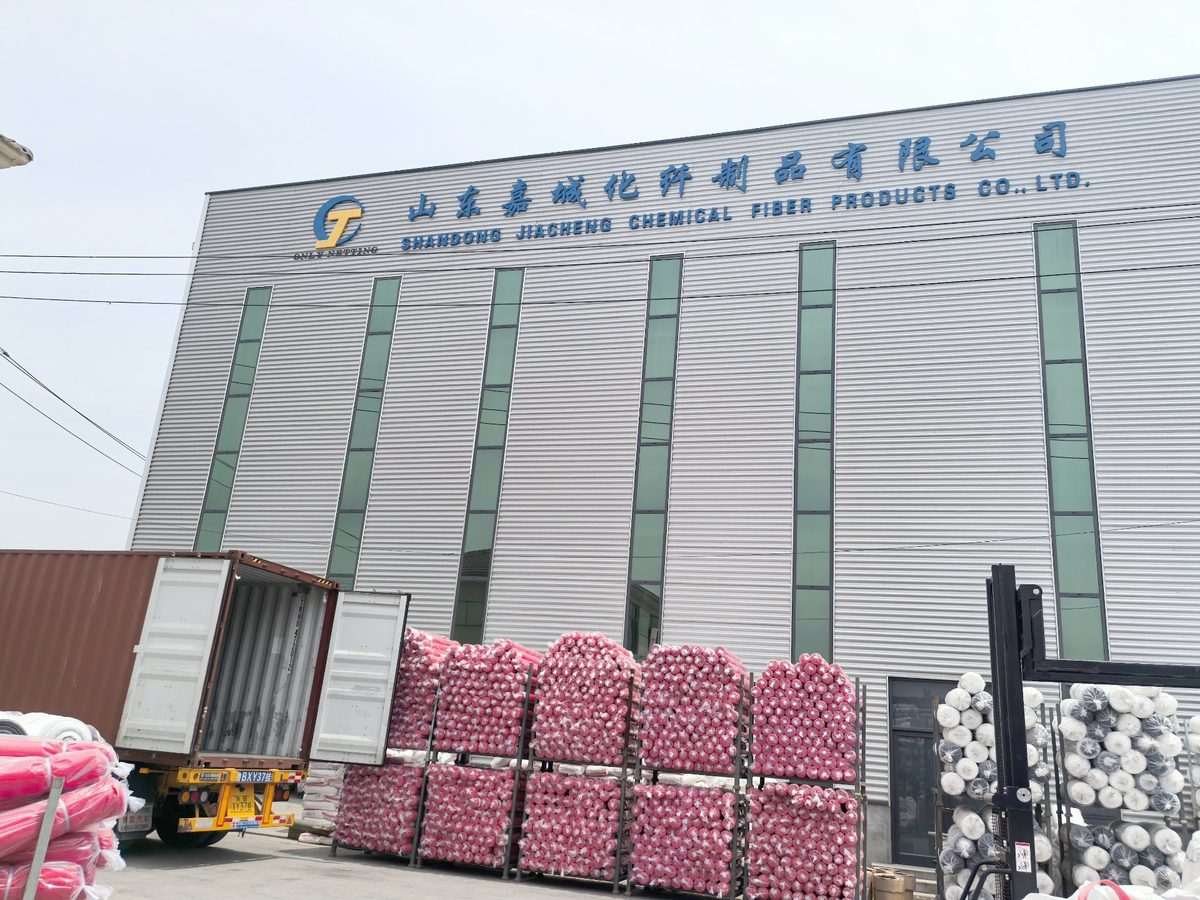
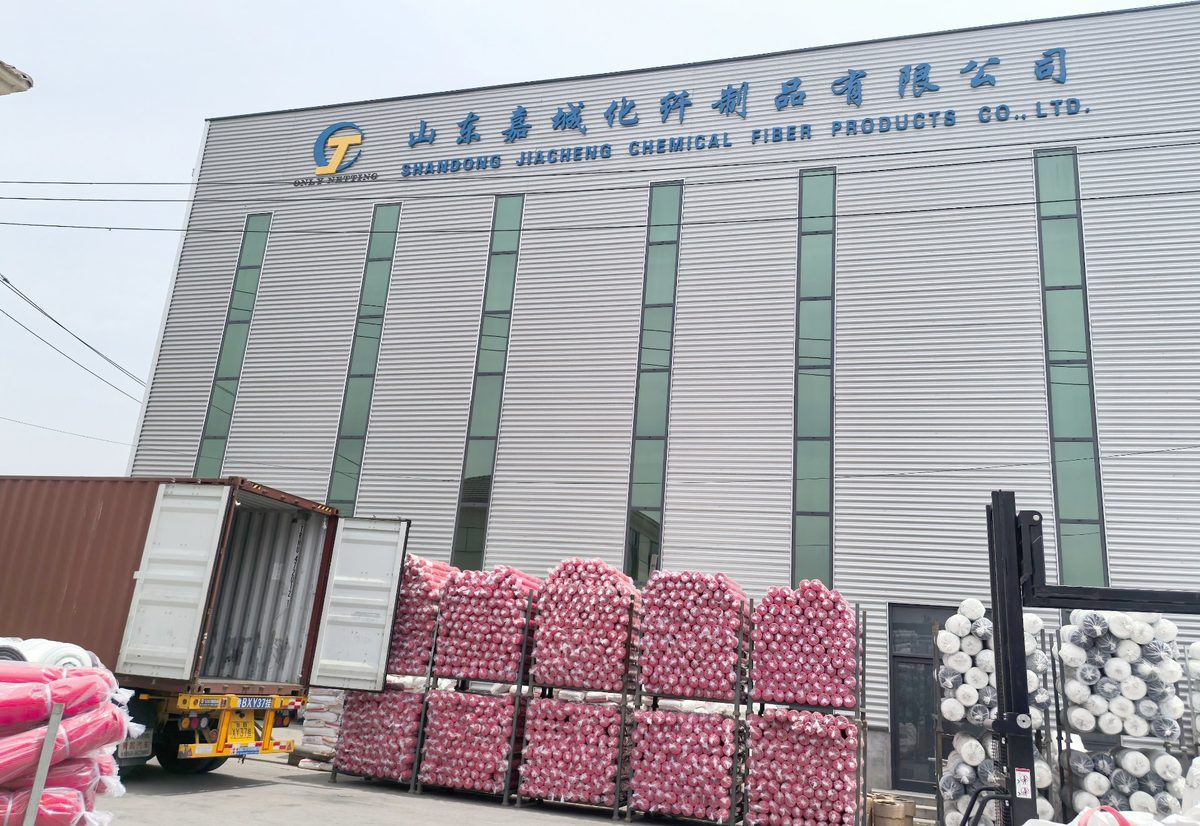
feat: replace hero with cropped factory image, add aspect-ratio 2:1, regenerate srcSet

diff --git a/src/components/home/Hero.tsx b/src/components/home/Hero.tsx
@@ -34,12 +34,14 @@ export default function Hero() {
             sizes="(max-width: 640px) 100vw, (max-width: 960px) 100vw, (max-width: 1200px) 100vw, 1200px"
             alt="Exterior view of Shandong Jiacheng Chemical Fiber Products Co., Ltd. facility, a leading HDPE netting manufacturer in China, showing a shipping container truck being loaded with finished netting rolls ready for bulk export and direct factory supply"
             width={1920}
-            height={1440}
+            height={1322}
             loading="eager"
             decoding="async"
             style={{
               width: "100%",
               height: "auto",
+              aspectRatio: "2 / 1",
+              objectFit: "cover",
               display: "block",
               borderRadius: 12,
               boxShadow: "0 4px 24px rgba(0,0,0,0.08)",
